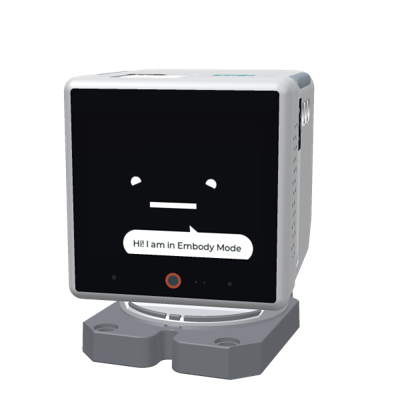
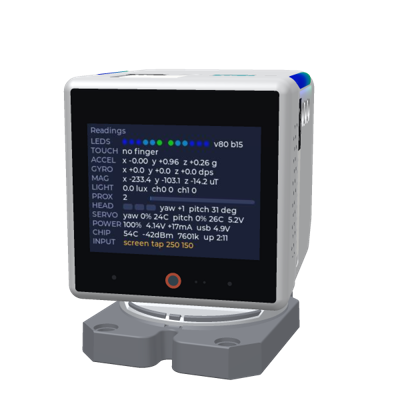
robot pictures refreshed (Raw data shows the robot's own readings, not a face; from s-w42-eu-assets robot3d-distribute)

Changed region(s): [[0.21, 0.3, 0.66, 0.66], [0.72, 0.18, 0.78, 0.24], [0.24, 0.18, 0.3, 0.21]]

diff --git a/s.html b/s.html
@@ -98,7 +98,7 @@
 
   <div class="robots">
     <a href="#pet"><figure><img src="/s/robot3d-pet.png" width="400" height="400" alt="The robot running the pet: a happy orange face"><figcaption>Pet</figcaption></figure></a>
-    <a href="#raw"><figure><img src="/s/robot3d-raw.png" width="400" height="400" alt="The robot running Raw data: its face and a speech bubble"><figcaption>Raw data</figcaption></figure></a>
+    <a href="#raw"><figure><img src="/s/robot3d-raw.png" width="400" height="400" alt="The robot running Raw data: its own readings on its screen"><figcaption>Raw data</figcaption></figure></a>
     <a href="#focus"><figure><img src="/s/robot3d-focus.png" width="400" height="400" alt="The robot running Focus: a red ring, 17:42 left, its LEDs counting down"><figcaption>Focus</figcaption></figure></a>
     <a href="#apps"><figure><img src="/s/robot3d-qr.png" width="400" height="400" alt="The robot's QR screen: scan it to pair a phone"><figcaption>QR to pair</figcaption></figure></a>
   </div>
